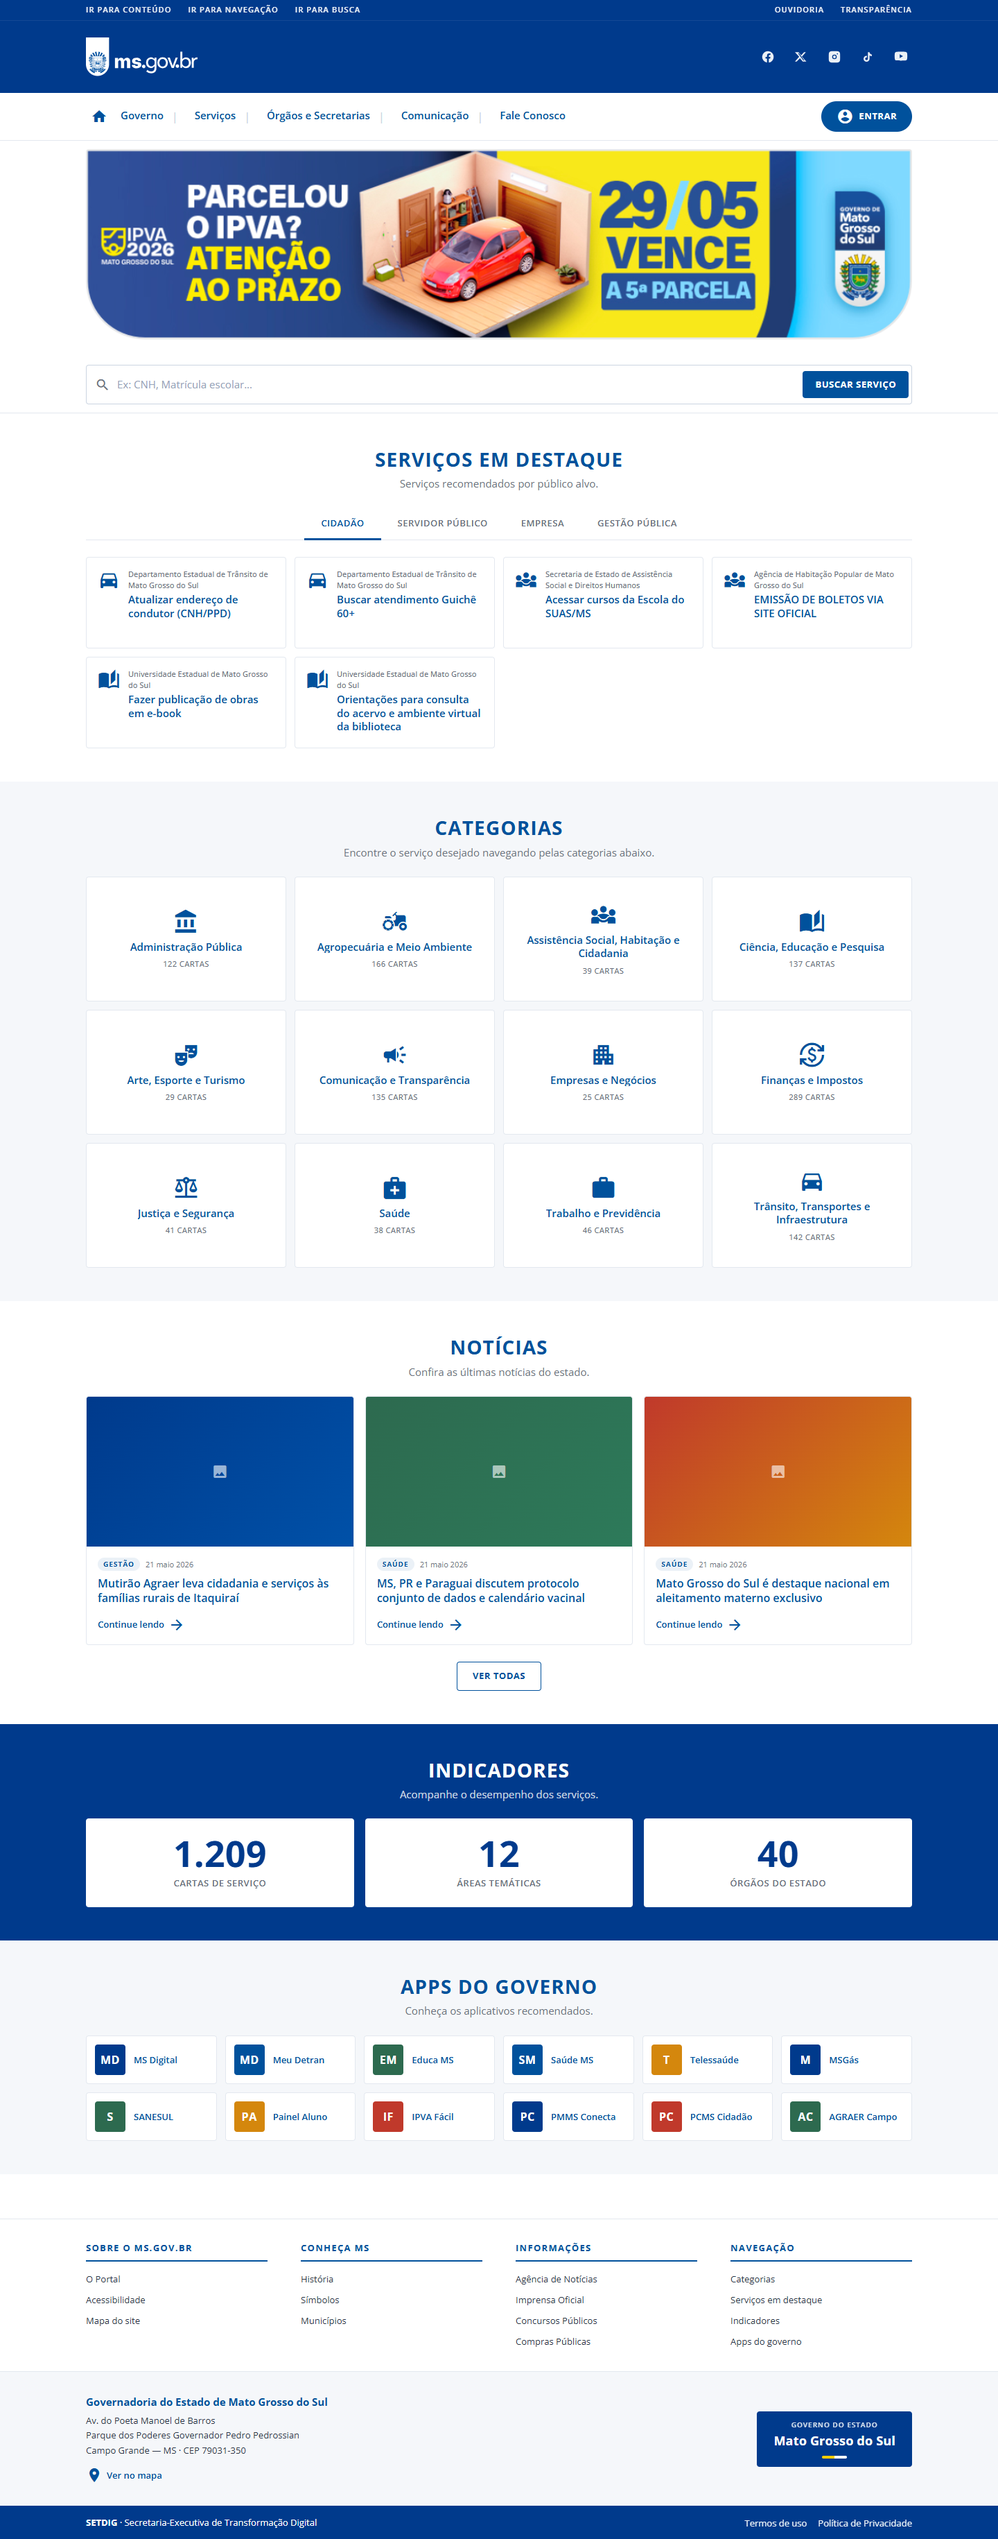
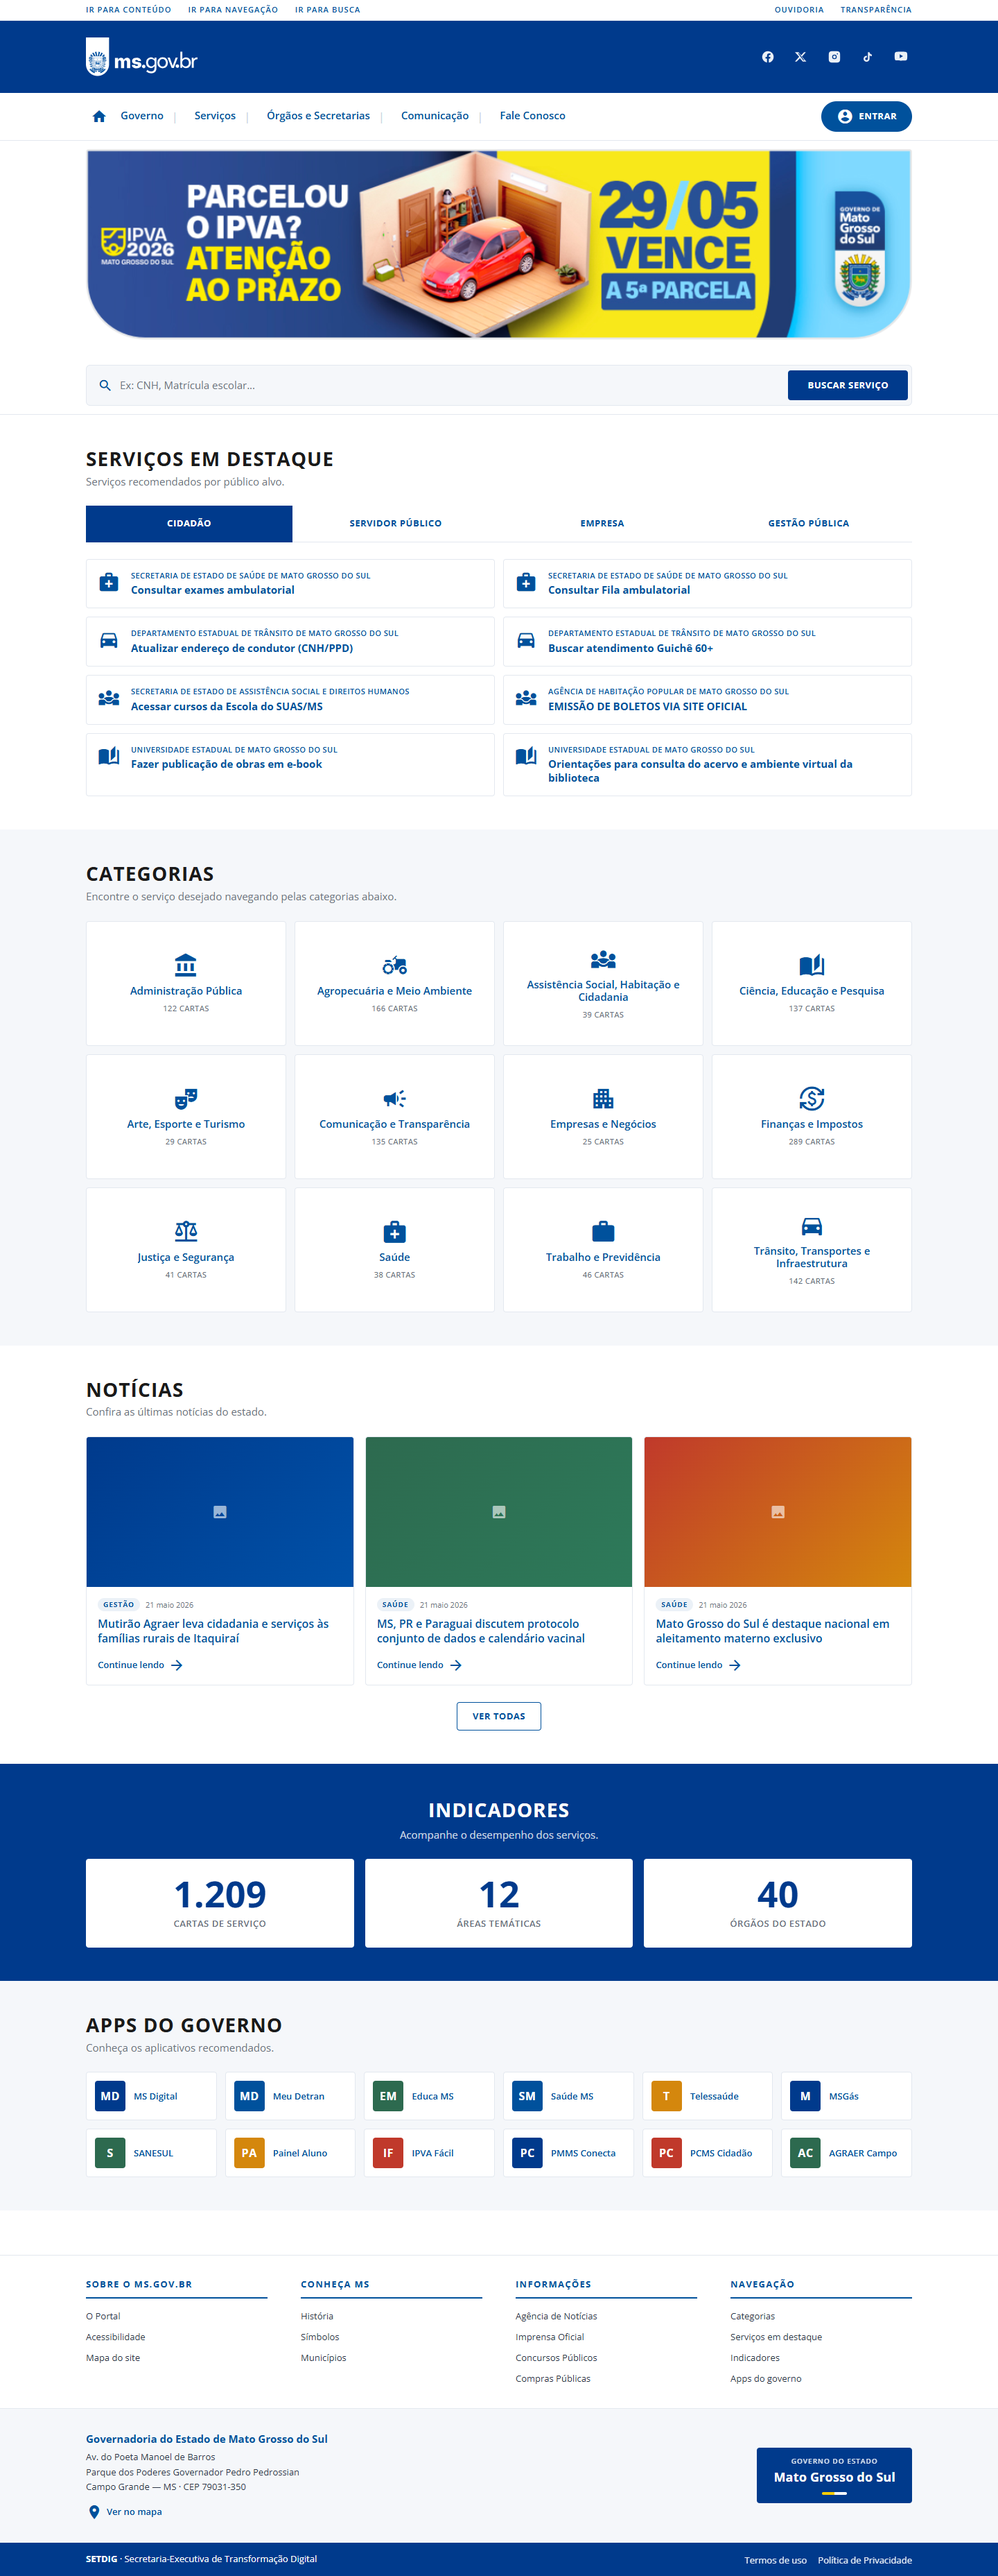
Refactor CSS styles for improved layout and accessibility; update text alignment, colors, and spacing across multiple components

diff --git a/src/features/home/HighlightedServices/HighlightedServices.module.css b/src/features/home/HighlightedServices/HighlightedServices.module.css
@@ -8,7 +8,7 @@
   flex-direction: column;
   gap: 6px;
   margin-bottom: var(--space-5);
-  text-align: center;
+  text-align: left;
 }
 
 .title {
@@ -16,7 +16,8 @@
   font-weight: var(--weight-bold);
   letter-spacing: var(--tracking-wide);
   text-transform: uppercase;
-  color: var(--color-primary);
+  color: var(--color-ink);
+  line-height: 1.1;
 }
 
 .subtitle {
@@ -25,34 +26,42 @@
 }
 
 .tabs {
-  display: flex;
-  flex-wrap: wrap;
-  gap: 0;
-  justify-content: center;
+  display: grid;
+  grid-template-columns: repeat(4, 1fr);
   border-bottom: 1px solid var(--color-rule);
   margin-bottom: var(--space-5);
 }
 
 .tab {
+  display: flex;
+  align-items: center;
+  justify-content: center;
   font-size: var(--size-2);
-  font-weight: var(--weight-semibold);
+  font-weight: var(--weight-bold);
   letter-spacing: var(--tracking-wide);
   text-transform: uppercase;
-  padding: var(--space-3) var(--space-5);
-  color: var(--color-muted);
+  padding: var(--space-4) var(--space-3);
+  color: var(--color-primary);
   background-color: transparent;
   border: none;
-  border-bottom: 3px solid transparent;
+  border-bottom: 1px solid var(--color-rule);
   margin-bottom: -1px;
   cursor: pointer;
-  transition: color var(--transition-fast), border-color var(--transition-fast);
+  transition: background-color var(--transition-fast), color var(--transition-fast);
 }
 
-.tab:hover { color: var(--color-primary); }
+.tab:hover {
+  background-color: var(--color-primary-soft);
+}
 
 .tabActive {
-  color: var(--color-primary);
-  border-bottom-color: var(--color-primary);
+  color: #ffffff;
+  background-color: var(--color-primary-dark);
+  border-bottom-color: var(--color-primary-dark);
+}
+
+.tabActive:hover {
+  background-color: var(--color-primary-dark);
 }
 
 .grid {
@@ -61,31 +70,29 @@
   gap: var(--space-3);
 }
 
-@media (min-width: 640px)  { .grid { grid-template-columns: repeat(2, 1fr); } }
-@media (min-width: 1080px) { .grid { grid-template-columns: repeat(4, 1fr); } }
+@media (min-width: 768px) { .grid { grid-template-columns: repeat(2, 1fr); } }
 
 .cell { list-style: none; }
 
 .card {
   display: flex;
   align-items: flex-start;
-  gap: var(--space-3);
+  gap: var(--space-4);
   padding: var(--space-4);
   background-color: var(--color-bg);
   border: 1px solid var(--color-rule);
   border-radius: var(--radius-sm);
   color: var(--color-text);
-  min-height: 132px;
+  height: 100%;
   transition:
     border-color var(--transition-fast),
     box-shadow var(--transition-fast),
-    transform var(--transition-fast);
+    background-color var(--transition-fast);
 }
 
 .card:hover {
   border-color: var(--color-primary);
-  box-shadow: var(--shadow-card-hover);
-  transform: translateY(-2px);
+  background-color: var(--color-primary-soft);
 }
 
 .card:hover .cardTitle { color: var(--color-primary-ink); }
@@ -102,18 +109,21 @@
   flex-direction: column;
   gap: 4px;
   min-width: 0;
+  flex: 1;
 }
 
 .cardAgency {
   font-size: var(--size-1);
-  color: var(--color-muted);
-  font-weight: var(--weight-medium);
-  line-height: 1.4;
+  color: var(--color-primary);
+  font-weight: var(--weight-semibold);
+  letter-spacing: var(--tracking-wide);
+  text-transform: uppercase;
+  line-height: 1.3;
 }
 
 .cardTitle {
   font-size: var(--size-3);
-  font-weight: var(--weight-semibold);
+  font-weight: var(--weight-bold);
   color: var(--color-primary);
   line-height: 1.3;
   transition: color var(--transition-fast);

diff --git a/src/features/home/HighlightedServices/HighlightedServices.tsx b/src/features/home/HighlightedServices/HighlightedServices.tsx
@@ -6,10 +6,10 @@ import styles from './HighlightedServices.module.css';
 type Audience = 'Cidadão' | 'Servidor Público' | 'Empresa' | 'Gestão Pública';
 
 const AUDIENCES: { id: Audience; categoriesHint: string[] }[] = [
-  { id: 'Cidadão', categoriesHint: ['saude-cuidado', 'transito-transportes-infraestrutura', 'assistencia-social-habitacao-cidadania', 'ciencia-educacao-pesquisa'] },
-  { id: 'Servidor Público', categoriesHint: ['trabalho-emprego-previdencia', 'administracao-publica'] },
-  { id: 'Empresa', categoriesHint: ['empresa-industria-comercio', 'financas-impostos', 'agropecuaria-meio-ambiente'] },
-  { id: 'Gestão Pública', categoriesHint: ['comunicacao-transparencia', 'justica-seguranca'] },
+  { id: 'Cidadão', categoriesHint: ['saude', 'transito-transportes-infraestrutura', 'assistencia-social-habitacao-cidadania', 'ciencia-educacao-pesquisa'] },
+  { id: 'Servidor Público', categoriesHint: ['trabalho-previdencia', 'administracao-publica', 'justica-seguranca', 'comunicacao-transparencia'] },
+  { id: 'Empresa', categoriesHint: ['empresas-negocios', 'financas-impostos', 'agropecuaria-meio-ambiente', 'comunicacao-transparencia'] },
+  { id: 'Gestão Pública', categoriesHint: ['comunicacao-transparencia', 'justica-seguranca', 'administracao-publica', 'financas-impostos'] },
 ];
 
 interface FeaturedItem {

diff --git a/src/features/home/SearchBar/SearchBar.module.css b/src/features/home/SearchBar/SearchBar.module.css
@@ -24,10 +24,10 @@
   display: flex;
   align-items: center;
   gap: var(--space-2);
-  background-color: var(--color-bg);
-  border: 1px solid var(--color-rule-strong);
-  border-radius: var(--radius-sm);
-  padding: 4px 4px 4px var(--space-3);
+  background-color: var(--color-page);
+  border: 1px solid var(--color-rule);
+  border-radius: var(--radius-md);
+  padding: 5px 5px 5px var(--space-4);
   transition: border-color var(--transition-fast), box-shadow var(--transition-fast);
 }
 
@@ -37,7 +37,7 @@
 }
 
 .icon {
-  color: var(--color-muted);
+  color: var(--color-primary);
   font-size: 22px;
   flex-shrink: 0;
 }
@@ -55,15 +55,15 @@
 }
 
 .input::placeholder {
-  color: var(--color-muted-soft);
+  color: var(--color-muted);
 }
 
 .submit {
   display: inline-flex;
   align-items: center;
-  gap: 6px;
-  padding: 10px 18px;
-  background-color: var(--color-primary);
+  justify-content: center;
+  padding: 12px 28px;
+  background-color: var(--color-primary-dark);
   color: #ffffff;
   font-family: var(--font-sans);
   font-size: var(--size-2);

diff --git a/src/styles/tokens.css b/src/styles/tokens.css
@@ -1,9 +1,9 @@
 :root {
   /* === Portal-fiel: cores extraídas do ms.gov.br + print === */
-  --color-primary: rgb(0, 81, 156);         /* azul institucional do portal */
+  --color-primary: #004f9f;                 /* azul institucional do portal */
   --color-primary-dark: #003a8c;            /* navy do header e indicadores */
   --color-primary-ink: #001e4d;
-  --color-primary-soft: rgba(0, 81, 156, 0.08);
+  --color-primary-soft: rgba(0, 79, 159, 0.08);
 
   --color-yellow: #ffce00;                  /* amarelo IPVA */
   --color-yellow-ink: #1a1a1a;
@@ -69,7 +69,7 @@
 
   --shadow-sm: 0 1px 2px rgba(15, 23, 42, 0.05);
   --shadow-card: 0 2px 8px rgba(15, 23, 42, 0.06);
-  --shadow-card-hover: 0 6px 18px rgba(0, 81, 156, 0.14);
+  --shadow-card-hover: 0 6px 18px rgba(0, 79, 159, 0.14);
 
   --transition-fast: 150ms ease;
   --transition-base: 200ms ease;

diff --git a/src/components/SiteHeader/SiteHeader.module.css b/src/components/SiteHeader/SiteHeader.module.css
@@ -36,13 +36,12 @@
 
 .skipLinks a,
 .utilityRight a {
-  color: #ffffff;
-  opacity: 0.92;
-  transition: opacity var(--transition-fast);
+  color: var(--color-primary);
+  transition: color var(--transition-fast);
 }
 
 .skipLinks a:hover,
-.utilityRight a:hover { opacity: 1; }
+.utilityRight a:hover { color: var(--color-primary-ink); }
 
 .skipLinks { display: none; }
 @media (min-width: 768px) { .skipLinks { display: flex; } }

diff --git a/src/features/categories/CategoriesGrid/CategoriesGrid.module.css b/src/features/categories/CategoriesGrid/CategoriesGrid.module.css
@@ -8,7 +8,7 @@
   flex-direction: column;
   gap: 6px;
   margin-bottom: var(--space-5);
-  text-align: center;
+  text-align: left;
 }
 
 .title {
@@ -16,7 +16,8 @@
   font-weight: var(--weight-bold);
   letter-spacing: var(--tracking-wide);
   text-transform: uppercase;
-  color: var(--color-primary);
+  color: var(--color-ink);
+  line-height: 1.1;
 }
 
 .subtitle {

diff --git a/src/features/home/AppsBlock/AppsBlock.module.css b/src/features/home/AppsBlock/AppsBlock.module.css
@@ -8,7 +8,7 @@
   flex-direction: column;
   gap: 6px;
   margin-bottom: var(--space-5);
-  text-align: center;
+  text-align: left;
 }
 
 .title {
@@ -16,7 +16,8 @@
   font-weight: var(--weight-bold);
   letter-spacing: var(--tracking-wide);
   text-transform: uppercase;
-  color: var(--color-primary);
+  color: var(--color-ink);
+  line-height: 1.1;
 }
 
 .subtitle {

diff --git a/src/features/home/NewsBlock/NewsBlock.module.css b/src/features/home/NewsBlock/NewsBlock.module.css
@@ -8,7 +8,7 @@
   flex-direction: column;
   gap: 6px;
   margin-bottom: var(--space-5);
-  text-align: center;
+  text-align: left;
 }
 
 .title {
@@ -16,7 +16,8 @@
   font-weight: var(--weight-bold);
   letter-spacing: var(--tracking-wide);
   text-transform: uppercase;
-  color: var(--color-primary);
+  color: var(--color-ink);
+  line-height: 1.1;
 }
 
 .subtitle {
